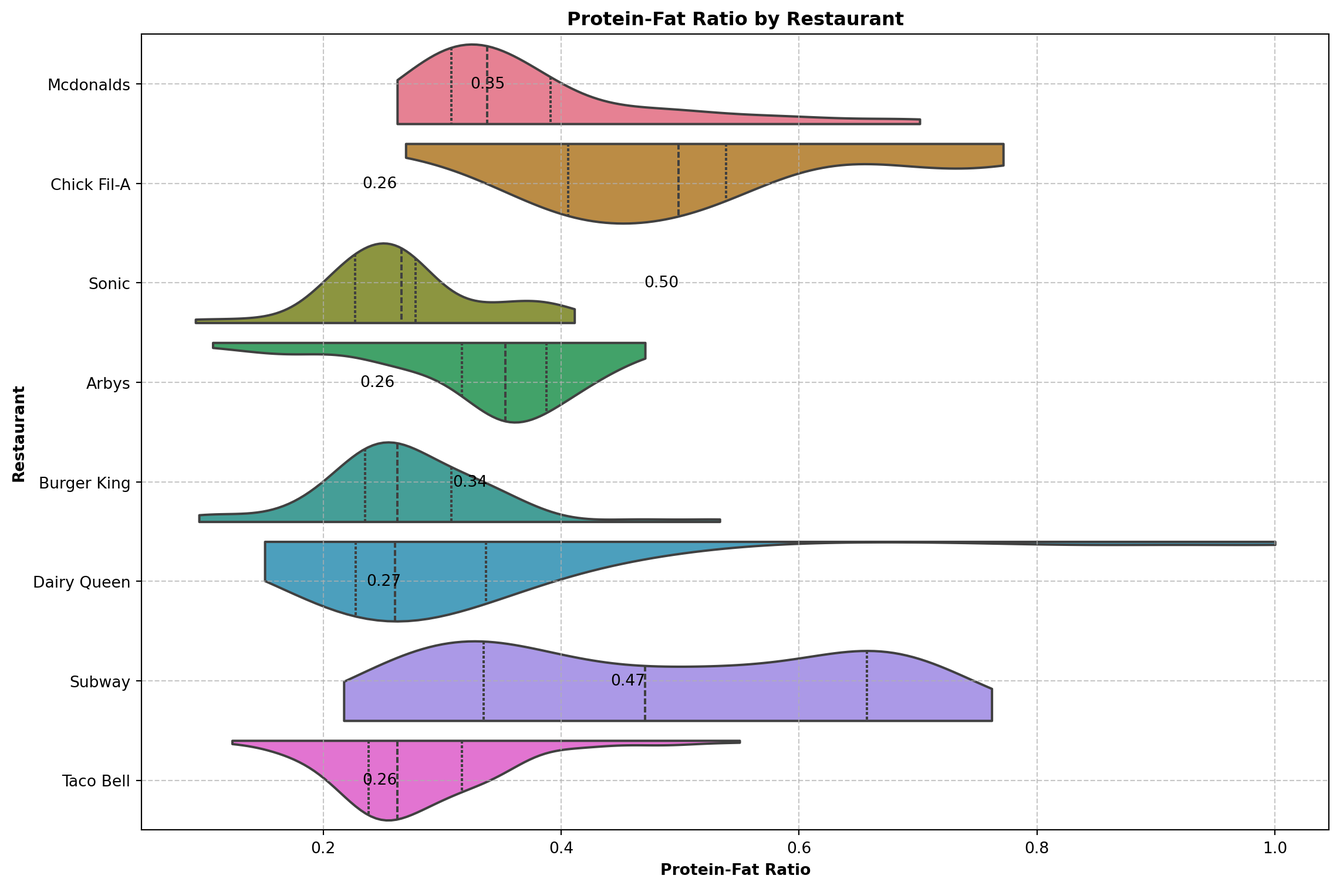
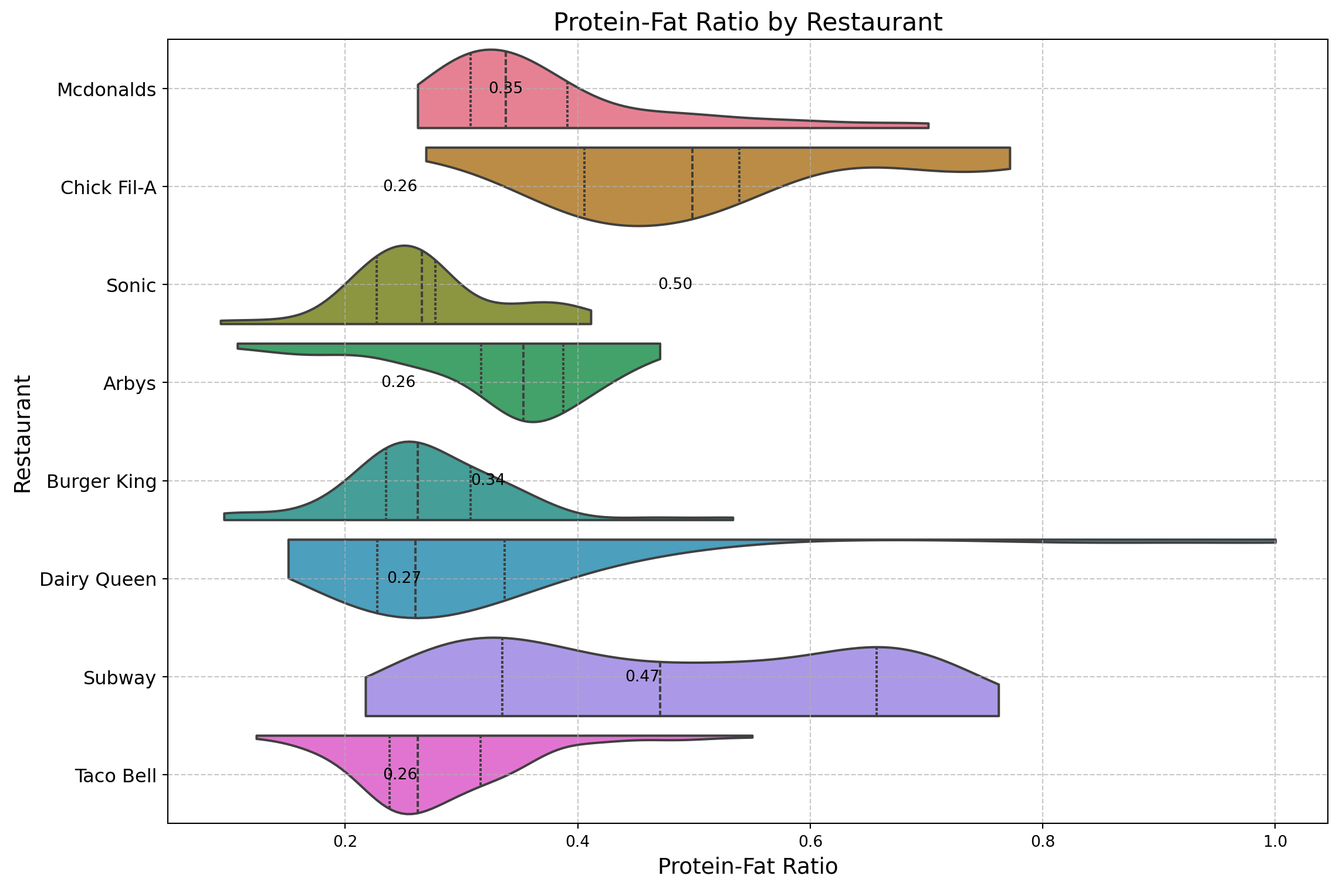
Built site for gh-pages

diff --git a/index.html b/index.html
@@ -8,7 +8,7 @@
 
 <meta name="author" content="Algo Aces">
 
-<title>Analysis of Food Calories - Project title</title>
+<title>Analysis of Food Calories - Analysis of Fast Food Calories</title>
 <style>
 code{white-space: pre-wrap;}
 span.smallcaps{font-variant: small-caps;}
@@ -178,7 +178,7 @@ pre > code.sourceCode > span > a:first-child::before { text-decoration: underlin
 
 <header id="title-block-header" class="quarto-title-block default">
 <div class="quarto-title">
-<h1 class="title">Project title</h1>
+<h1 class="title">Analysis of Fast Food Calories</h1>
 <p class="subtitle lead">INFO 523 - Project 1</p>
 </div>
 
@@ -204,15 +204,12 @@ pre > code.sourceCode > span > a:first-child::before { text-decoration: underlin
 
 <section id="abstract" class="level3">
 <h3 class="anchored" data-anchor-id="abstract">Abstract</h3>
-<p>This study explores how protein-fat ratios differ between meal categories and whether they meet a certain health standard, as well as the calorie consumption for each visit to various fast food establishments. The data wrangling involved the creation of “protein_calories” and “categorised_food_items” columns in the dataset. Statistical techniques are used to provide thorough summaries of calorie content per each restaurant. Visualizations such as violin plots and line graphs display the distribution and median calorie consumption per individual, allowing for more in-depth analysis. Furthermore, the project examines the protein-fat ratios of different food items and compares them against established health standard. Items are categorized as either healthy or unhealthy depending on their protein-to-fat ratio. The use of half-violin and scatter plots clarifies the distribution and median protein-fat ratio among restaurant menus, providing a comprehensive knowledge of nutritional distributions. The summary data table based on protein-fat ratio provides further insights into the nutritional composition of menu items.</p>
-<p>Insights into the calorie and protein_fat ratios enable consumers to make educated dietary choices by giving information about the nutritional profiles of fast-food options. Furthermore, it provides useful assistance for politicians and public health advocates in developing ways to address diet-related health issues. These findings contribute to the common goal of better service by encouraging responsibility in the fast-food business and furthering nutrition science.</p>
-<p>Limitations: 1) The reason to choose median over mean to calculate average calories is because the provided data from the dataset is skewed and there is an asymmetrical distribution of the data for the variables. The data also contains outliers which can affect the mean value but not the median. 2) The definition of what the health metric should be based on the dataset provided was made difficult. A special health metric was generated based on our analysis for this project.</p>
 <section id="introduction" class="level4">
 <h4 class="anchored" data-anchor-id="introduction">Introduction</h4>
 </section>
 <section id="introducing-the-dataset" class="level4">
 <h4 class="anchored" data-anchor-id="introducing-the-dataset">Introducing the dataset</h4>
-<p>The “Fast Food Calories” dataset comprises nutritional information for various food items offered by eight distinct fast-food outlets. Each outlet’s menu is detailed, encompassing items such as burgers, fries, beverages, and salads. The dataset’s sources include: research institutions, open data repositories(tidytuesday) and compiled data sets from various sources. The dataset contains multiple columns representing different attributes of fast-food items, such as name, restaurant, category, calorie count, fat content, protein content, carbohydrate content, etc. The number of rows corresponds to the number of individual fast-food items for each restaurant in the dataset.</p>
+<p>The “Fast Food Calories” dataset comprises nutritional information for various food items offered by eight distinct fast-food outlets. Each outlet’s menu is detailed, encompassing items such as burgers, fries, beverages, and salads. The dataset’s sources include: research institutions, open data reposiotories(tidytuesday) and compiled data sets from various sources. The dataset contains multiple columns representing different attributes of fast-food items, such as name, restaurant, category, calorie count, fat content, protein content, carbohydrate content, etc. The number of rows corresponds to the number of individual fast-food items for each restaurant in the dataset.</p>
 </section>
 </section>
 <section id="exploratory-data-analysis" class="level3">
@@ -232,7 +229,7 @@ pre > code.sourceCode > span > a:first-child::before { text-decoration: underlin
 </section>
 <section id="part-1" class="level4">
 <h4 class="anchored" data-anchor-id="part-1">Part 1</h4>
-<div id="1cacdcc5" class="cell" data-message="false" data-execution_count="1">
+<div id="9791c54a" class="cell" data-message="false" data-execution_count="1">
 <details class="code-fold">
 <summary>Code</summary>
 <div class="sourceCode cell-code" id="cb1"><pre class="sourceCode python code-with-copy"><code class="sourceCode python"><span id="cb1-1"><a href="#cb1-1" aria-hidden="true" tabindex="-1"></a><span class="im">import</span> numpy <span class="im">as</span> np</span>
@@ -404,7 +401,7 @@ pre > code.sourceCode > span > a:first-child::before { text-decoration: underlin
 </div>
 </div>
 <p>Part 2</p>
-<div id="89915725" class="cell" data-message="false" data-execution_count="2">
+<div id="a49057a9" class="cell" data-message="false" data-execution_count="2">
 <details class="code-fold">
 <summary>Code</summary>
 <div class="sourceCode cell-code" id="cb3"><pre class="sourceCode python code-with-copy"><code class="sourceCode python"><span id="cb3-1"><a href="#cb3-1" aria-hidden="true" tabindex="-1"></a><span class="im">import</span> pandas <span class="im">as</span> pd</span>
@@ -429,9 +426,9 @@ pre > code.sourceCode > span > a:first-child::before { text-decoration: underlin
 <span id="cb3-20"><a href="#cb3-20" aria-hidden="true" tabindex="-1"></a>    plt.text(restaurant, median_calories.loc[i, <span class="st">'calories'</span>] <span class="op">-</span> <span class="dv">15</span>, <span class="ss">f"</span><span class="sc">{</span>median_calories<span class="sc">.</span>loc[i, <span class="st">'calories'</span>]<span class="sc">:.0f}</span><span class="ss">"</span>, ha<span class="op">=</span><span class="st">'center'</span>, fontsize<span class="op">=</span><span class="dv">10</span>, color<span class="op">=</span><span class="st">'black'</span>)</span>
 <span id="cb3-21"><a href="#cb3-21" aria-hidden="true" tabindex="-1"></a></span>
 <span id="cb3-22"><a href="#cb3-22" aria-hidden="true" tabindex="-1"></a><span class="co"># Add title and labels</span></span>
-<span id="cb3-23"><a href="#cb3-23" aria-hidden="true" tabindex="-1"></a>plt.title(<span class="st">'Calories per visit to a Restaurant'</span>,fontweight<span class="op">=</span><span class="st">'bold'</span>)</span>
-<span id="cb3-24"><a href="#cb3-24" aria-hidden="true" tabindex="-1"></a>plt.xlabel(<span class="st">'Restaurant'</span>, fontweight<span class="op">=</span><span class="st">'bold'</span>)</span>
-<span id="cb3-25"><a href="#cb3-25" aria-hidden="true" tabindex="-1"></a>plt.ylabel(<span class="st">'Calories per visit'</span>, fontweight<span class="op">=</span><span class="st">'bold'</span>)</span>
+<span id="cb3-23"><a href="#cb3-23" aria-hidden="true" tabindex="-1"></a>plt.title(<span class="st">'Average Calories per visit to a Restaurant'</span>, fontsize<span class="op">=</span><span class="dv">16</span>)</span>
+<span id="cb3-24"><a href="#cb3-24" aria-hidden="true" tabindex="-1"></a>plt.xlabel(<span class="st">'Restaurant'</span>, fontsize<span class="op">=</span><span class="dv">14</span>)</span>
+<span id="cb3-25"><a href="#cb3-25" aria-hidden="true" tabindex="-1"></a>plt.ylabel(<span class="st">'Average Calories per visit'</span>, fontsize<span class="op">=</span><span class="dv">14</span>)</span>
 <span id="cb3-26"><a href="#cb3-26" aria-hidden="true" tabindex="-1"></a></span>
 <span id="cb3-27"><a href="#cb3-27" aria-hidden="true" tabindex="-1"></a><span class="co"># Rotate x-axis labels for better readability (optional)</span></span>
 <span id="cb3-28"><a href="#cb3-28" aria-hidden="true" tabindex="-1"></a>plt.xticks(rotation<span class="op">=</span><span class="dv">45</span>, ha<span class="op">=</span><span class="st">'right'</span>)</span>
@@ -448,7 +445,7 @@ pre > code.sourceCode > span > a:first-child::before { text-decoration: underlin
 <div class="cell-output cell-output-display">
 <div>
 <figure class="figure">
-<p><img src="index_files/figure-html/cell-3-output-1.png" width="816" height="578" class="figure-img"></p>
+<p><img src="index_files/figure-html/cell-3-output-1.png" width="822" height="588" class="figure-img"></p>
 </figure>
 </div>
 </div>
@@ -456,8 +453,7 @@ pre > code.sourceCode > span > a:first-child::before { text-decoration: underlin
 </section>
 <section id="discussion" class="level4">
 <h4 class="anchored" data-anchor-id="discussion">Discussion</h4>
-<p>The distribution of calorie consumption per visit across various fast-food restaurants is illustrated by the visualization of a violin plot. The width of each “violin” in the violin plot, corresponds to the density of observations at various calorie levels. Each violin’s quartiles provide information on the data’s central tendency and distribution, aiding in the understanding of the variability in calorie counts among restaurants. A summary table is printed, which includes information such as mean, standard deviation, minimum, 25th percentile, median (50th percentile), 75th percentile, and maximum calorie counts. This mix of graphic and numerical statistics offers a thorough picture of calorie consumption patterns across different fast-food businesses.</p>
-<p>The second visualization presents a line plot featuring inverted triangle marker, where each restaurant median calorie is symbolized by a marker. Horizontally positioned according to restaurant names and vertically aligned based on the average calorie count per visit, the plot enables us to discern that certain restaurants boast notably higher median calorie counts. Based on the visualizations presented, it is evident that customers of Chick-fil-A tend to consume the lowest calorie intake per visit, averaging 390 calories, while Sonic customers exhibit the highest calorie consumption per visit, averaging 570 calories. This highlights the substantial variation in the nutritional profiles of meals served at different fast-food establishments. Some restaurants exhibit consistent calorie counts across visits, while others demonstrate greater variability, indicative of a broader selection of food options with varying calorie content.</p>
+<p>The distribution of calorie consumption per visit across various fast-food restaurants is illustrated by the visualization of a violin plot. The width of each “violin” in the violin plot, corresponds to the density of observations at various calorie levels. Each violin’s quartiles provide information on the data’s central tendency and distribution, aiding in the understanding of the variability in calorie counts among restaurants. A summary table is printed, which includes information such as mean, standard deviation, minimum, 25th percentile, median (50th percentile), 75th percentile, and maximum calorie counts. This mix of graphic and numerical statistics offers a thorough picture of calorie consumption patterns across different fast-food businesses. The second visualization presents a line plot featuring inverted triangle marker, where each restaurant median calorie is symbolized by a marker. Horizontally positioned according to restaurant names and vertically aligned based on the average calorie count per visit, the plot enables us to discern that certain restaurants boast notably higher median calorie counts. This highlights the substantial variation in the nutritional profiles of meals served at different fast-food establishments. Some restaurants exhibit consistent calorie counts across visits, while others demonstrate greater variability, indicative of a broader selection of food options with varying calorie content.</p>
 </section>
 <section id="question-2" class="level4">
 <h4 class="anchored" data-anchor-id="question-2">Question 2</h4>
@@ -469,7 +465,7 @@ pre > code.sourceCode > span > a:first-child::before { text-decoration: underlin
 </section>
 <section id="approach-1" class="level4">
 <h4 class="anchored" data-anchor-id="approach-1">Approach</h4>
-<p>For question 2, we’ll use the “protein” and “item” variables. To standardize the proteins and fats we’ll convert them to calories. By employing the protein-fat ratio, we established a health metric to classify food items as healthy or unhealthy. We have used a half-violin plot to visualize these findings. The half-violin plot is particularly helpful since it demonstrates the distribution of our data while simultaneously indicating its symmetry. The shape of the plot gives us insight into the density of our data, which helps us comprehend the distribution of our health metrics. We have also used a line plot with a circle marker to visualize the median protein-fat ratio of each restaurant. Using these Scatter plots provides a clear visual representation of the data points’ dispersion. The summary statistics table for the menu items offered by each of these eateries was found based on the protein-fat ratio.</p>
+<p>For question 2, we’ll use the “protein” and “item” variables. To standardize the proteins and fats we’ll convert them to calories. By employing the protein-fat ratio, we established a health metric to classify food items as healthy or unhealthy. We have used a half-violin plot to visualize these findings. The half-violin plot is particularly helpful since it demonstrates the distribution of our data while simultaneously indicating its symmetry. The shape of the plot gives us insight into the density of our data, which helps us comprehend the distribution of our health metrics. We have also used a scatter plot to visualize the median protein-fat ratio of each restaurant. Using these Scatter plots provides a clear visual representation of the data points’ dispersion. The summary statistics table for the menu items offered by each of these eateries was found based on the protein-fat ratio.</p>
 </section>
 <section id="analysis-1" class="level4">
 <h4 class="anchored" data-anchor-id="analysis-1">Analysis</h4>
@@ -515,12 +511,12 @@ pre > code.sourceCode > span > a:first-child::before { text-decoration: underlin
 <span id="cb4-34"><a href="#cb4-34" aria-hidden="true" tabindex="-1"></a>    plt.text(median_protein_fat_ratio[<span class="st">'Protein_fat_ratio'</span>][i], i, <span class="ss">f"</span><span class="sc">{</span>median_protein_fat_ratio[<span class="st">'Protein_fat_ratio'</span>][i]<span class="sc">:.2f}</span><span class="ss">"</span>, fontsize<span class="op">=</span><span class="dv">10</span>, va<span class="op">=</span><span class="st">'center'</span>, ha<span class="op">=</span><span class="st">'right'</span>, color<span class="op">=</span><span class="st">'black'</span>)</span>
 <span id="cb4-35"><a href="#cb4-35" aria-hidden="true" tabindex="-1"></a></span>
 <span id="cb4-36"><a href="#cb4-36" aria-hidden="true" tabindex="-1"></a><span class="co"># Add title and labels</span></span>
-<span id="cb4-37"><a href="#cb4-37" aria-hidden="true" tabindex="-1"></a>plt.title(<span class="st">'Protein-Fat Ratio by Restaurant'</span>, fontweight<span class="op">=</span><span class="st">'bold'</span>)</span>
-<span id="cb4-38"><a href="#cb4-38" aria-hidden="true" tabindex="-1"></a>plt.xlabel(<span class="st">'Protein-Fat Ratio'</span>, fontweight<span class="op">=</span><span class="st">'bold'</span>)</span>
-<span id="cb4-39"><a href="#cb4-39" aria-hidden="true" tabindex="-1"></a>plt.ylabel(<span class="st">'Restaurant'</span>, fontweight<span class="op">=</span><span class="st">'bold'</span>)</span>
+<span id="cb4-37"><a href="#cb4-37" aria-hidden="true" tabindex="-1"></a>plt.title(<span class="st">'Protein-Fat Ratio by Restaurant'</span>, fontsize<span class="op">=</span><span class="dv">16</span>)</span>
+<span id="cb4-38"><a href="#cb4-38" aria-hidden="true" tabindex="-1"></a>plt.xlabel(<span class="st">'Protein-Fat Ratio'</span>, fontsize<span class="op">=</span><span class="dv">14</span>)</span>
+<span id="cb4-39"><a href="#cb4-39" aria-hidden="true" tabindex="-1"></a>plt.ylabel(<span class="st">'Restaurant'</span>, fontsize<span class="op">=</span><span class="dv">14</span>)</span>
 <span id="cb4-40"><a href="#cb4-40" aria-hidden="true" tabindex="-1"></a></span>
 <span id="cb4-41"><a href="#cb4-41" aria-hidden="true" tabindex="-1"></a><span class="co"># Customize y-axis labels</span></span>
-<span id="cb4-42"><a href="#cb4-42" aria-hidden="true" tabindex="-1"></a><span class="co">#plt.yticks(fontsize=12)</span></span>
+<span id="cb4-42"><a href="#cb4-42" aria-hidden="true" tabindex="-1"></a>plt.yticks(fontsize<span class="op">=</span><span class="dv">12</span>)</span>
 <span id="cb4-43"><a href="#cb4-43" aria-hidden="true" tabindex="-1"></a></span>
 <span id="cb4-44"><a href="#cb4-44" aria-hidden="true" tabindex="-1"></a><span class="co"># Show the plot</span></span>
 <span id="cb4-45"><a href="#cb4-45" aria-hidden="true" tabindex="-1"></a>plt.grid(<span class="va">True</span>, linestyle<span class="op">=</span><span class="st">'--'</span>, alpha<span class="op">=</span><span class="fl">0.7</span>)</span>
@@ -530,12 +526,12 @@ pre > code.sourceCode > span > a:first-child::before { text-decoration: underlin
 <div class="cell-output cell-output-display">
 <div>
 <figure class="figure">
-<p><img src="index_files/figure-html/figure3-output-1.png" id="figure3" width="1142" height="758" class="figure-img"></p>
+<p><img src="index_files/figure-html/figure3-output-1.png" id="figure3" width="1141" height="758" class="figure-img"></p>
 </figure>
 </div>
 </div>
 </div>
-<p>The plot below represents the health metric for the fast food restaurants based on the protein fat ratio.</p>
+<p>The table below represents the health metric for the fast food restaurants based on the protein fat ratio.</p>
 <div id="cell-health_metric_plot" class="cell" data-message="false" data-execution_count="4">
 <details class="code-fold">
 <summary>Code</summary>
@@ -550,24 +546,24 @@ pre > code.sourceCode > span > a:first-child::before { text-decoration: underlin
 <span id="cb5-9"><a href="#cb5-9" aria-hidden="true" tabindex="-1"></a></span>
 <span id="cb5-10"><a href="#cb5-10" aria-hidden="true" tabindex="-1"></a><span class="co"># Plot points for protein fat ratios for each restaurant</span></span>
 <span id="cb5-11"><a href="#cb5-11" aria-hidden="true" tabindex="-1"></a><span class="cf">for</span> i, restaurant <span class="kw">in</span> <span class="bu">enumerate</span>(restaurants):</span>
-<span id="cb5-12"><a href="#cb5-12" aria-hidden="true" tabindex="-1"></a>    plt.scatter([protein_fat_ratios[i]], [restaurant], marker<span class="op">=</span><span class="st">'o'</span>)</span>
+<span id="cb5-12"><a href="#cb5-12" aria-hidden="true" tabindex="-1"></a>    plt.scatter([protein_fat_ratios[i]], [restaurant], label<span class="op">=</span>restaurant, marker<span class="op">=</span><span class="st">'o'</span>)</span>
 <span id="cb5-13"><a href="#cb5-13" aria-hidden="true" tabindex="-1"></a></span>
 <span id="cb5-14"><a href="#cb5-14" aria-hidden="true" tabindex="-1"></a><span class="co"># Shade the regions</span></span>
 <span id="cb5-15"><a href="#cb5-15" aria-hidden="true" tabindex="-1"></a>plt.axvspan(<span class="fl">0.25</span>, <span class="fl">0.40</span>, color<span class="op">=</span><span class="st">'lightcoral'</span>, alpha<span class="op">=</span><span class="fl">0.5</span>, label<span class="op">=</span><span class="st">'Needs Improvement'</span>)</span>
 <span id="cb5-16"><a href="#cb5-16" aria-hidden="true" tabindex="-1"></a>plt.axvspan(<span class="fl">0.40</span>, <span class="fl">0.50</span>, color<span class="op">=</span><span class="st">'lightgreen'</span>, alpha<span class="op">=</span><span class="fl">0.5</span>, label<span class="op">=</span><span class="st">'Healthy'</span>)</span>
 <span id="cb5-17"><a href="#cb5-17" aria-hidden="true" tabindex="-1"></a></span>
-<span id="cb5-18"><a href="#cb5-18" aria-hidden="true" tabindex="-1"></a><span class="co"># Labels and legend for shaded regions</span></span>
-<span id="cb5-19"><a href="#cb5-19" aria-hidden="true" tabindex="-1"></a>plt.xlabel(<span class="st">'Protein Fat Ratio'</span>, fontweight<span class="op">=</span><span class="st">'bold'</span>)</span>
-<span id="cb5-20"><a href="#cb5-20" aria-hidden="true" tabindex="-1"></a>plt.ylabel(<span class="st">'Restaurants'</span>, fontweight<span class="op">=</span><span class="st">'bold'</span>)</span>
-<span id="cb5-21"><a href="#cb5-21" aria-hidden="true" tabindex="-1"></a>plt.title(<span class="st">'Protein Fat Ratio of Restaurants'</span>, fontweight<span class="op">=</span><span class="st">'bold'</span>)</span>
-<span id="cb5-22"><a href="#cb5-22" aria-hidden="true" tabindex="-1"></a>plt.legend()</span>
-<span id="cb5-23"><a href="#cb5-23" aria-hidden="true" tabindex="-1"></a></span>
-<span id="cb5-24"><a href="#cb5-24" aria-hidden="true" tabindex="-1"></a><span class="co"># Customize y-axis labels</span></span>
-<span id="cb5-25"><a href="#cb5-25" aria-hidden="true" tabindex="-1"></a>plt.yticks(restaurants)</span>
-<span id="cb5-26"><a href="#cb5-26" aria-hidden="true" tabindex="-1"></a></span>
-<span id="cb5-27"><a href="#cb5-27" aria-hidden="true" tabindex="-1"></a><span class="co"># Show plot</span></span>
-<span id="cb5-28"><a href="#cb5-28" aria-hidden="true" tabindex="-1"></a>plt.grid(<span class="va">True</span>, linestyle<span class="op">=</span><span class="st">'--'</span>, alpha<span class="op">=</span><span class="fl">0.7</span>)</span>
-<span id="cb5-29"><a href="#cb5-29" aria-hidden="true" tabindex="-1"></a>plt.tight_layout()</span>
+<span id="cb5-18"><a href="#cb5-18" aria-hidden="true" tabindex="-1"></a><span class="co"># Labels and legend</span></span>
+<span id="cb5-19"><a href="#cb5-19" aria-hidden="true" tabindex="-1"></a>plt.xlabel(<span class="st">'Protein Fat Ratio'</span>)</span>
+<span id="cb5-20"><a href="#cb5-20" aria-hidden="true" tabindex="-1"></a>plt.ylabel(<span class="st">'Restaurants'</span>)</span>
+<span id="cb5-21"><a href="#cb5-21" aria-hidden="true" tabindex="-1"></a>plt.title(<span class="st">'Protein Fat Ratio of Restaurants'</span>)</span>
+<span id="cb5-22"><a href="#cb5-22" aria-hidden="true" tabindex="-1"></a></span>
+<span id="cb5-23"><a href="#cb5-23" aria-hidden="true" tabindex="-1"></a><span class="co"># Customize y-axis labels</span></span>
+<span id="cb5-24"><a href="#cb5-24" aria-hidden="true" tabindex="-1"></a>plt.yticks(restaurants)</span>
+<span id="cb5-25"><a href="#cb5-25" aria-hidden="true" tabindex="-1"></a></span>
+<span id="cb5-26"><a href="#cb5-26" aria-hidden="true" tabindex="-1"></a><span class="co"># Show plot</span></span>
+<span id="cb5-27"><a href="#cb5-27" aria-hidden="true" tabindex="-1"></a>plt.grid(<span class="va">True</span>, linestyle<span class="op">=</span><span class="st">'--'</span>, alpha<span class="op">=</span><span class="fl">0.7</span>)</span>
+<span id="cb5-28"><a href="#cb5-28" aria-hidden="true" tabindex="-1"></a>plt.tight_layout()</span>
+<span id="cb5-29"><a href="#cb5-29" aria-hidden="true" tabindex="-1"></a><span class="co">#plt.legend()</span></span>
 <span id="cb5-30"><a href="#cb5-30" aria-hidden="true" tabindex="-1"></a>plt.show()</span></code><button title="Copy to Clipboard" class="code-copy-button"><i class="bi"></i></button></pre></div>
 </details>
 <div class="cell-output cell-output-display">
@@ -578,7 +574,7 @@ pre > code.sourceCode > span > a:first-child::before { text-decoration: underlin
 </div>
 </div>
 </div>
-<p>The table below represents the summary statistics of the food categories of the data set using the protein fat ratio</p>
+<p>The code chunk below represents the summary statistics of the food categories of the data set using the protein fat ratio</p>
 <div id="cell-summary_stats" class="cell" data-message="false" data-execution_count="5">
 <details class="code-fold">
 <summary>Code</summary>
@@ -747,23 +743,7 @@ pre > code.sourceCode > span > a:first-child::before { text-decoration: underlin
 </div>
 </div>
 </div>
-</section>
-<section id="discussion-1" class="level4">
-<h4 class="anchored" data-anchor-id="discussion-1">Discussion</h4>
-<p>The half-violin plot depicts how the protein-fat ratio varies between fast-food outlets. The numbers near quartile lines inside the violin plots show each restaurant’s median protein-fat ratio. The quartile line range provides information on the nutritional markup of their menu items. Some restaurants have narrower distributions, indicating less protein-fat ratios in those quartile distributions, while others have larger distributions, implying more protein-fat ratio in the quartile ranges.</p>
-<p>The line plot with a circle marker depicts the protein-fat ratios of several fast-food establishments. Each point in the diagram represents a restaurant, with the placement determined by the protein-fat ratio. The shaded regions determine the threshold for classifying restaurants as either “Needs Improvement” or “Healthy” based on their protein-fat ratios. Restaurants classified in the “Needs Improvement” category suggest that their menu options are characterized by a higher proportion of fat relative to protein. Conversely, eateries placed in the “Healthy” category indicate a more favorable protein-to-fat ratio, implying a healthier balance in their menu offerings.</p>
-<p>For the summary statistics table the food items were categorized into 8 main categories, burgers, chicken nuggets/ tenders, chicken sandwiches, hotdogs, other, salads, subway items, and tacos and burritos, these categorizations were done using a dictionary. A dictionary was created for each food category containing certain words distinct to each food category. Based on the words in the dictionary for each food category, if a word in the food item can be found in the food category dictionary, the food item will be categorized as such.</p>
-<p>These findings and statistics can mainly aid eateries improve their food quality and customer satisfaction.</p>
-</section>
-<section id="group-members" class="level4">
-<h4 class="anchored" data-anchor-id="group-members">Group members</h4>
-<ul>
-<li><p>Sai Navya Reddy: First year graduate student Data Science at University of Arizona.</p></li>
-<li><p>Gowtham Theeda: First year graduate student Data Science at University of Arizona.</p></li>
-<li><p>Tanya Evita George: First year graduate student Data Science at University of Arizona.</p></li>
-<li><p>Monica Tejaswi Kommareddy:First year graduate student Data Science at University of Arizona.</p></li>
-<li><p>Valerie Naa Dei Okine: First year graduate student Data Science at University of Arizona</p></li>
-</ul>
+<p>###Discussion The half-violin plot depicts how the protein-fat ratio varies between fast-food outlets. The numbers near quartile lines inside the violin plots show each restaurant’s median protein-fat ratio. The quartile line range provides information on the nutritional markup of their menu items. Some restaurants have narrower distributions, indicating less protein-fat ratios in those quartile distributions, while others have larger distributions, implying more protein-fat ratio in the quartile ranges. The line plot with a circle marker depicts the protein-fat ratios of several fast-food establishments. Each point in the diagram represents a restaurant, with the placement determined by the protein-fat ratio. The shaded regions determine the threshold for classifying restaurants as either “Needs Improvement” or “Healthy” based on their protein-fat ratios. Restaurants classified in the “Needs Improvement” category suggest that their menu options are characterized by a higher proportion of fat relative to protein. Conversely, eateries placed in the “Healthy” category indicate a more favorable protein-to-fat ratio, implying a healthier balance in their menu offerings. For the summary statistics table the food items were categorized into 8 main categories, burgers, chicken nuggets/ tenders, chicken sandwiches, hotdogs, other, salads, subway items, and tacos and burritos, these categorizations were done using a dictionary. A dictionary was created for each food category containing certain words distinct to each food category. Based on the words in the dictionary for each food category, if a word in the food item can be found in the food category dictionary, the food item will be categorized as such.</p>
 
 
 </section>
